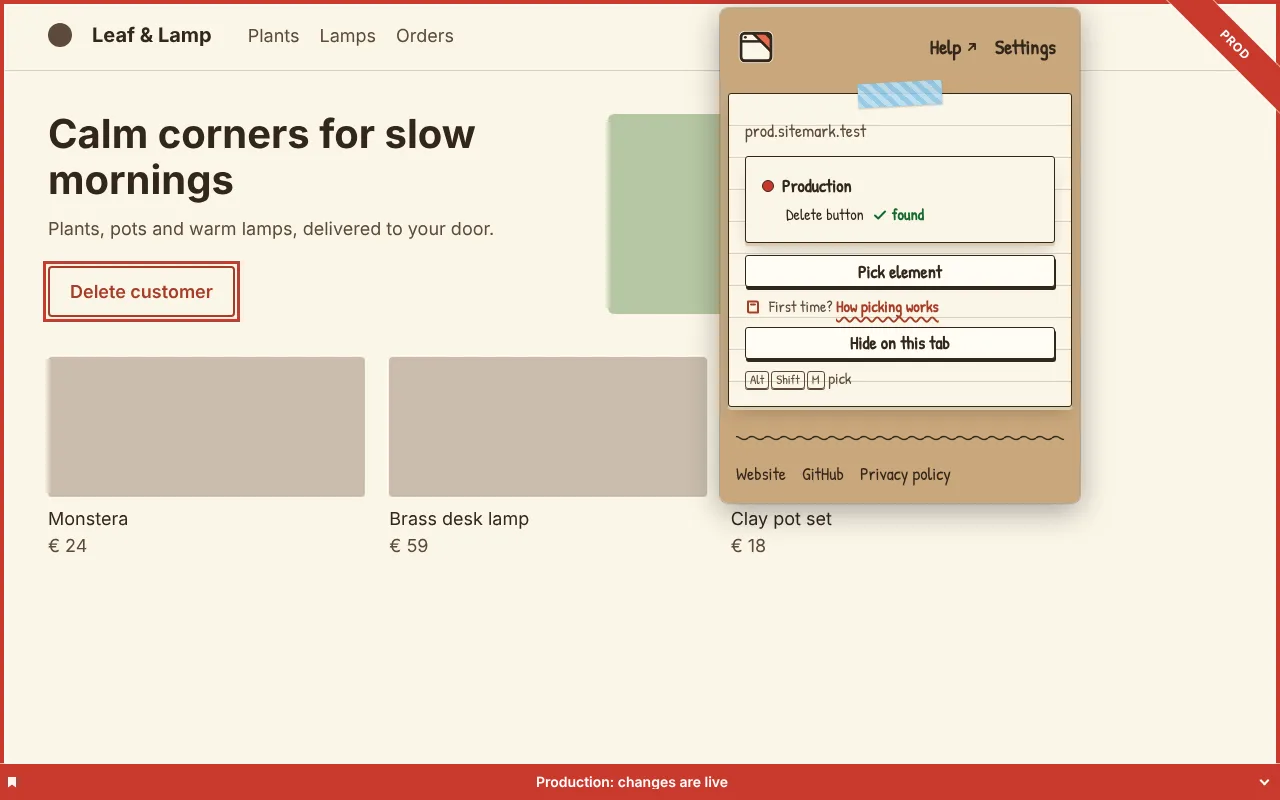
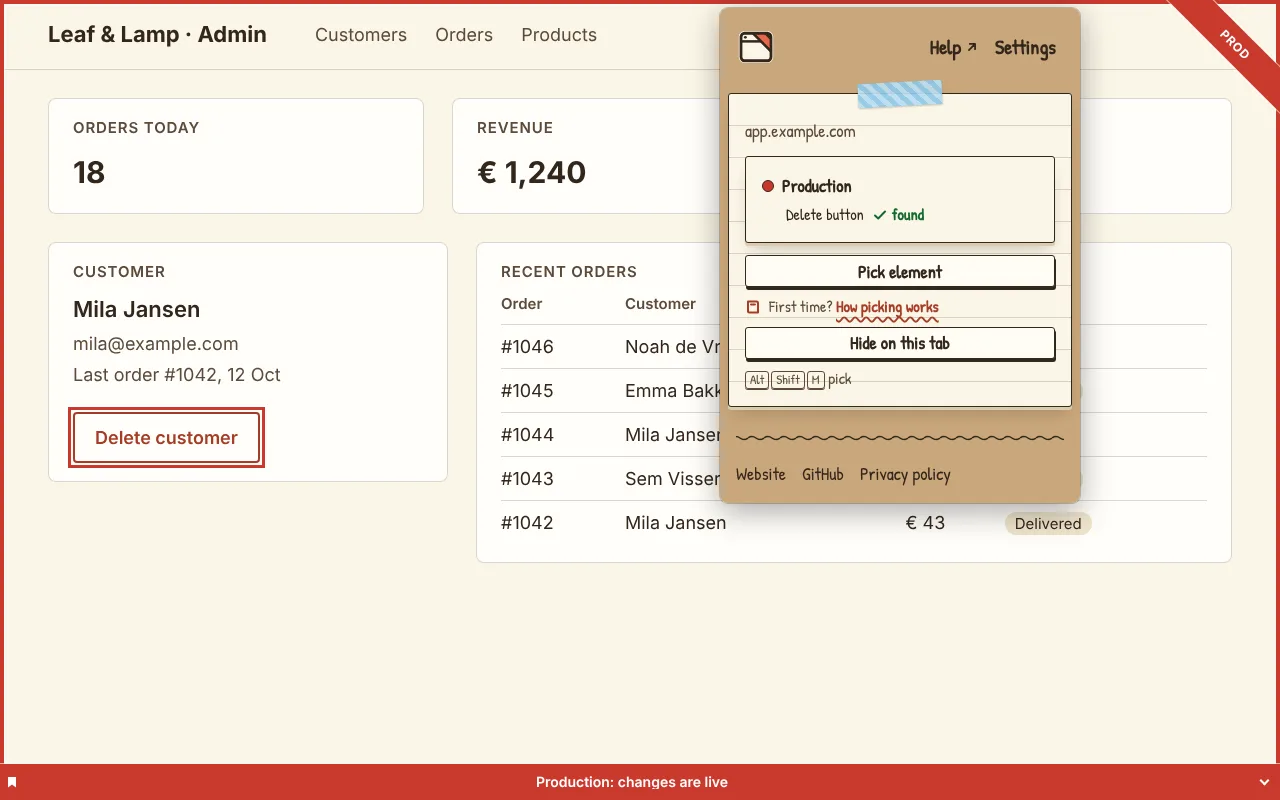
design(bug): mark the demo shop's admin page on example.com hosts in the screenshots
Claude-Session: https://claude.ai/code/session_0148aSShzizZHMJKCzXMv7hZ

diff --git a/website/scripts/screenshot-page.ts b/website/scripts/screenshot-page.ts
@@ -1,78 +1,99 @@
 import type { ScreenshotTheme } from '../src/content/screenshots';
 import type { Locale } from '../src/i18n/locales';
 
-// The page the screenshots mark (T-230): the same "Leaf & Lamp" shop the website's hero and playground
-// show (MockShop), now with real text, served by the generator at http://prod.sitemark.test/ (a
-// pre-granted origin of the e2e build), so no URL in the screenshots carries a port. Its colors
-// echo the mock shop's paper tones but belong to the demo shop, not to SiteMark.
+// The page the screenshots mark (T-230): the admin of the "Leaf & Lamp" shop the website's hero and
+// playground show (MockShop), with a customer card, its risky Delete button and recent orders. The
+// generators serve it on the hosts the e2e build pre-grants, so no URL in the screenshots carries a port.
+// Its colors echo the mock shop's paper tones but belong to the demo shop, not to SiteMark, and its
+// status chips stay grey so they never compete with the marks.
 
 type Text = {
-  brand: string;
+  admin: string;
   links: readonly string[];
-  headline: string;
-  lead: string;
+  stats: readonly (readonly [string, string])[];
+  customer: string;
+  lastOrder: string;
   remove: string;
-  products: readonly (readonly [string, string])[];
+  orders: string;
+  columns: readonly string[];
+  statuses: readonly string[];
 };
 
 const TEXT: Record<Locale, Text> = {
   en: {
-    brand: 'Leaf & Lamp',
-    links: ['Plants', 'Lamps', 'Orders'],
-    headline: 'Calm corners for slow mornings',
-    lead: 'Plants, pots and warm lamps, delivered to your door.',
-    remove: 'Delete customer',
-    products: [
-      ['Monstera', '€ 24'],
-      ['Brass desk lamp', '€ 59'],
-      ['Clay pot set', '€ 18'],
+    admin: 'Admin',
+    links: ['Customers', 'Orders', 'Products'],
+    stats: [
+      ['Orders today', '18'],
+      ['Revenue', '€ 1,240'],
+      ['Open tickets', '3'],
     ],
+    customer: 'Customer',
+    lastOrder: 'Last order #1042, 12 Oct',
+    remove: 'Delete customer',
+    orders: 'Recent orders',
+    columns: ['Order', 'Customer', 'Total', 'Status'],
+    statuses: ['Paid', 'Shipped', 'Packed', 'Shipped', 'Delivered'],
   },
   nl: {
-    brand: 'Leaf & Lamp',
-    links: ['Planten', 'Lampen', 'Bestellingen'],
-    headline: 'Rustige hoekjes voor trage ochtenden',
-    lead: 'Planten, potten en warme lampen, bij je thuisbezorgd.',
-    remove: 'Klant verwijderen',
-    products: [
-      ['Monstera', '€ 24'],
-      ['Messing bureaulamp', '€ 59'],
-      ['Set kleipotten', '€ 18'],
+    admin: 'Beheer',
+    links: ['Klanten', 'Bestellingen', 'Producten'],
+    stats: [
+      ['Bestellingen vandaag', '18'],
+      ['Omzet', '€ 1.240'],
+      ['Open tickets', '3'],
     ],
+    customer: 'Klant',
+    lastOrder: 'Laatste bestelling #1042, 12 okt',
+    remove: 'Klant verwijderen',
+    orders: 'Recente bestellingen',
+    columns: ['Bestelling', 'Klant', 'Totaal', 'Status'],
+    statuses: ['Betaald', 'Verzonden', 'Ingepakt', 'Verzonden', 'Bezorgd'],
   },
 };
+
+const ORDERS = [
+  ['#1046', 'Noah de Vries', '€ 84'],
+  ['#1045', 'Emma Bakker', '€ 59'],
+  ['#1044', 'Mila Jansen', '€ 24'],
+  ['#1043', 'Sem Visser', '€ 112'],
+  ['#1042', 'Mila Jansen', '€ 43'],
+] as const;
 
 const PALETTE: Record<ScreenshotTheme, string> = {
   light:
-    '--bg:#fbf6e8;--text:#33261b;--muted:#5c4a3a;--line:rgb(51 38 27/18%);--sage:#b7c7a3;--lamp:#e9b94a;--wood:#7a5a3a;--thumb:#a89883;--danger:#a63d28',
-  dark: '--bg:#241d33;--text:#f7f0e3;--muted:#cdc3dd;--line:rgb(247 240 227/14%);--sage:#4a5a5e;--lamp:#f2c94c;--wood:#a8896a;--thumb:#6b6285;--danger:#ff9c8c',
+    '--bg:#fbf6e8;--card:#fffefa;--text:#33261b;--muted:#5c4a3a;--line:rgb(51 38 27/18%);--chip:#efe4cb;--danger:#a63d28',
+  dark: '--bg:#241d33;--card:#2f2742;--text:#f7f0e3;--muted:#cdc3dd;--line:rgb(247 240 227/14%);--chip:#3a3150;--danger:#ff9c8c',
 };
 
 const STYLE = `body{margin:0;font:18px/1.5 system-ui,sans-serif;background:var(--bg);color:var(--text)}
-header{display:flex;gap:20px;align-items:center;padding:20px 48px;border-bottom:1px solid var(--line)}
-header i{width:24px;height:24px;border-radius:50%;background:var(--muted)}header b{font-size:20px;margin-right:16px}
-header span{color:var(--muted)}main{display:grid;gap:40px;padding:40px 48px;max-width:1000px}
-.hero{display:grid;grid-template-columns:1.2fr 1fr;gap:32px;align-items:center}
-h1{margin:0 0 12px;font-size:40px;line-height:1.15}p{margin:0 0 24px;color:var(--muted)}
-.picture{height:200px;border-radius:6px;background:var(--sage);position:relative;overflow:hidden}
-.picture::before{content:'';position:absolute;left:50%;top:28px;width:96px;height:80px;margin-left:-48px;border-radius:48px 48px 8px 8px;background:var(--lamp)}
-.picture::after{content:'';position:absolute;left:50%;top:108px;width:72px;height:64px;margin-left:-36px;background:linear-gradient(var(--wood),var(--wood)) center top/6px 48px no-repeat,linear-gradient(var(--wood),var(--wood)) center bottom/72px 12px no-repeat;border-radius:2px}
-button{font:inherit;font-weight:600;padding:10px 20px;border-radius:4px;border:2px solid var(--danger);
-background:transparent;color:var(--danger)}
-.products{display:grid;grid-template-columns:repeat(3,1fr);gap:24px}
-.thumb{height:140px;border-radius:4px;background:var(--thumb);opacity:.6;margin-bottom:8px}
-.products span{color:var(--muted)}`;
+header{display:flex;gap:28px;align-items:center;padding:18px 48px;border-bottom:1px solid var(--line)}
+header b{font-size:22px;margin-right:20px}header span{color:var(--muted)}
+main{display:grid;grid-template-columns:400px 1fr;align-items:start;gap:28px;padding:28px 48px}
+.stats{grid-column:1/-1;display:grid;grid-template-columns:repeat(3,1fr);gap:28px}
+section{background:var(--card);border:1px solid var(--line);border-radius:8px;padding:18px 24px}
+h2{margin:0 0 10px;font-size:15px;font-weight:600;text-transform:uppercase;letter-spacing:.06em;color:var(--muted)}
+.stats strong{font-size:30px}p{margin:0 0 4px;color:var(--muted)}p:first-of-type{font-size:22px;font-weight:600;color:var(--text)}
+button{margin-top:20px;font:inherit;font-weight:600;padding:10px 20px;border-radius:4px;border:2px solid var(--danger);background:transparent;color:var(--danger)}
+table{width:100%;border-collapse:collapse}td,th{padding:8px 0;text-align:left;border-top:1px solid var(--line)}
+th{border:0;padding-top:0;font-size:15px;color:var(--muted);font-weight:600}
+td i{font-style:normal;font-size:15px;padding:2px 10px;border-radius:99px;background:var(--chip)}`;
 
 /** The demo page in the screenshot's language and theme. */
 export function screenshotPage(locale: Locale, theme: ScreenshotTheme): string {
-  const { brand, links, headline, lead, remove, products } = TEXT[locale];
-  const items = products
-    .map(([name, price]) => `<div><div class="thumb"></div>${name}<br><span>${price}</span></div>`)
-    .join('');
-  return `<!doctype html><html lang="${locale}"><head><meta charset="utf-8"><title>${brand}</title>
-<style>:root{${PALETTE[theme]}}${STYLE}</style></head><body><header><i></i><b>${brand}</b>${links
+  const t = TEXT[locale];
+  const stats = t.stats.map(
+    ([label, value]) => `<section><h2>${label}</h2><strong>${value}</strong></section>`,
+  );
+  const rows = ORDERS.map(
+    (row, i) =>
+      `<tr>${row.map((cell) => `<td>${cell}</td>`).join('')}<td><i>${t.statuses[i]}</i></td></tr>`,
+  );
+  return `<!doctype html><html lang="${locale}"><head><meta charset="utf-8"><title>Leaf & Lamp · ${t.admin}</title>
+<style>:root{${PALETTE[theme]}}${STYLE}</style></head><body><header><b>Leaf & Lamp · ${t.admin}</b>${t.links
     .map((link) => `<span>${link}</span>`)
-    .join('')}</header><main><div class="hero"><div><h1>${headline}</h1><p>${lead}</p>
-<button id="delete">${remove}</button></div><div class="picture"></div></div>
-<div class="products">${items}</div></main></body></html>`;
+    .join('')}</header><main><div class="stats">${stats.join('')}</div>
+<section><h2>${t.customer}</h2><p>Mila Jansen</p><p>mila@example.com</p><p>${t.lastOrder}</p>
+<button id="delete">${t.remove}</button></section>
+<section><h2>${t.orders}</h2><table><tr>${t.columns.map((c) => `<th>${c}</th>`).join('')}</tr>${rows.join('')}</table></section></main></body></html>`;
 }

diff --git a/website/scripts/scene.ts b/website/scripts/scene.ts
@@ -6,9 +6,10 @@ import { SCREENSHOT_SIZE, type ScreenshotTheme } from '../src/content/screenshot
 import type { Locale } from '../src/i18n/locales';
 import { screenshotPage } from './screenshot-page';
 
-/** Pre-granted origins of the e2e build, on the default port: the marked shop and an unmarked one. */
-export const ORIGIN = 'http://prod.sitemark.test';
-export const TEST_ORIGIN = 'http://test.sitemark.test';
+/** Pre-granted origins of the e2e build (example.com is reserved): production, staging and test. */
+export const ORIGIN = 'https://app.example.com';
+export const STAGING_ORIGIN = 'https://staging.example.com';
+export const TEST_ORIGIN = 'https://test.example.com';
 
 export type Env = {
   context: BrowserContext;
@@ -17,9 +18,9 @@ export type Env = {
   theme: ScreenshotTheme;
 };
 
-/** Serves the demo page on both origins (`?theme=dark` for the dark variant). */
+/** Serves the demo page on every origin (`?theme=dark` for the dark variant). */
 export async function serveDemoPage(context: BrowserContext, locale: Locale): Promise<void> {
-  for (const origin of [ORIGIN, TEST_ORIGIN]) {
+  for (const origin of [ORIGIN, STAGING_ORIGIN, TEST_ORIGIN]) {
     await context.route(`${origin}/**`, (route) => {
       const theme = new URL(route.request().url()).searchParams.get('theme');
       const body = screenshotPage(locale, theme === 'dark' ? 'dark' : 'light');
@@ -42,11 +43,11 @@ export async function settle(page: Page): Promise<Buffer> {
   return png;
 }
 
-/** The popup for the tab showing `url`, as a panel as tall as its content. */
-export async function popupPanel(
+/** The popup for the tab showing `url`, sized as a panel as tall as its content. */
+export async function openPopupPanel(
   { context, worker, extensionId, theme }: Env,
   url: string,
-): Promise<Buffer> {
+): Promise<Page> {
   const { site, popup } = await openPopupFor(context, worker, extensionId, url);
   await popup.emulateMedia({ colorScheme: theme, reducedMotion: 'reduce' });
   await popup.setViewportSize({ width: 360, height: 600 });
@@ -60,8 +61,10 @@ export async function popupPanel(
   const height = await popup.evaluate(() => document.body.scrollHeight);
   await popup.setViewportSize({ width: 360, height: Math.min(height, 600) });
   await site.close();
-  return settle(popup);
+  return popup;
 }
+
+export const popupPanel = async (env: Env, url: string) => settle(await openPopupPanel(env, url));
 
 /** Draws the popup panel over the page screenshot, below the toolbar like the browser does. */
 export async function popupOverPage(

diff --git a/website/scripts/screenshots.ts b/website/scripts/screenshots.ts
@@ -76,7 +76,7 @@ for (const locale of websiteLocales()) {
       await serveDemoPage(context, locale);
       const state = await seedSiteGroup(context, extensionId, {
         name: SEEDS[locale].name,
-        patterns: ['*://prod.sitemark.test/*'],
+        patterns: [`*://${new URL(ORIGIN).host}/*`],
         marks: seedMarks(locale),
       });
       const group = state.siteGroups.at(-1);
